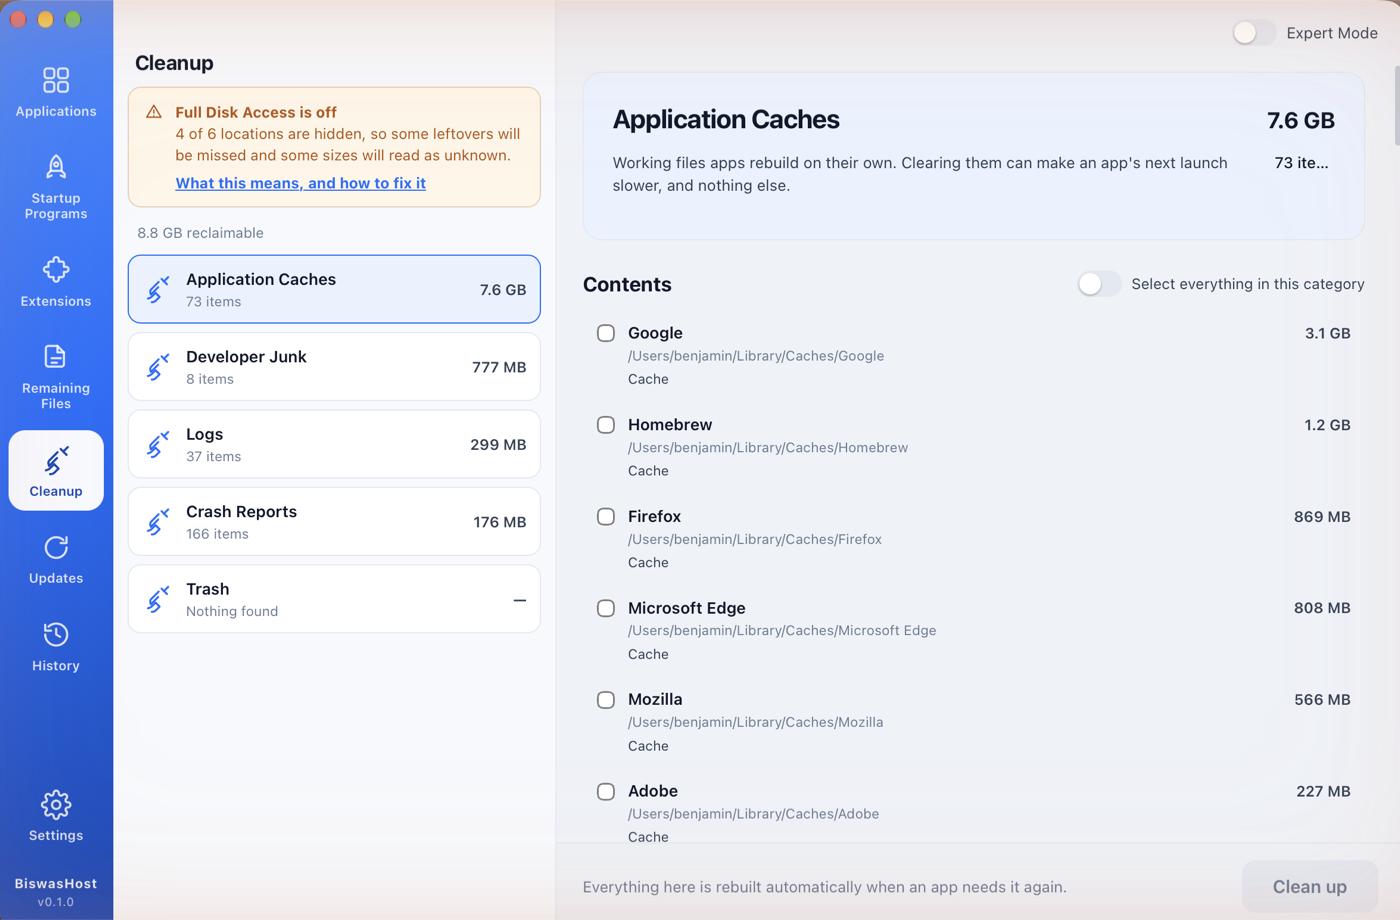
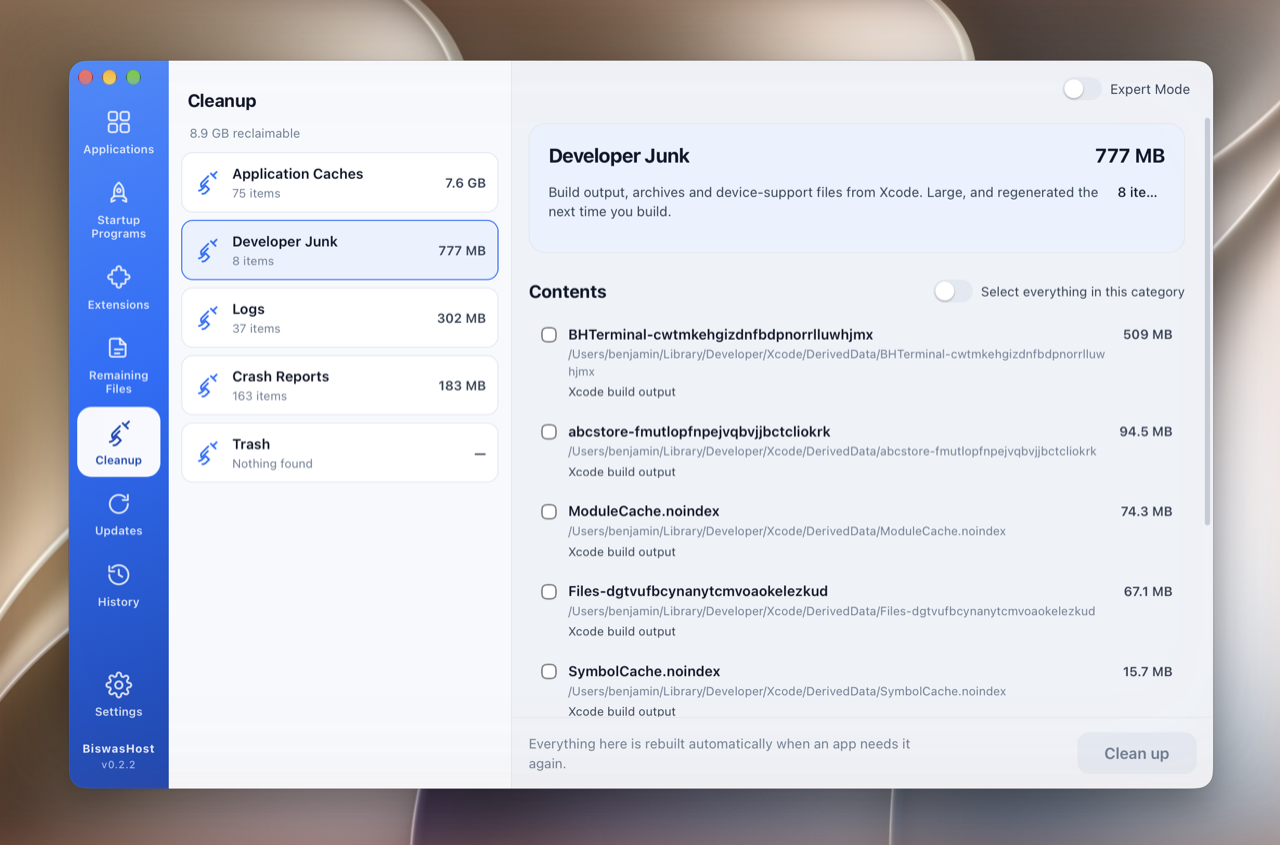
Retake the screenshots, and explain the permission that stops applying
All eight are from the installed 0.2.2 app rather than a build folder, with the
desktop and window shadow showing rather than a bare crop.

Every app they feature is free or open source — Free Download Manager, Firefox,
Android Studio, Homebrew's daemons, Xcode build output. Paid software is kept
out of them entirely, including App Cleaner, which is both paid and a direct
competitor and so an odd thing to put in our own README.

Adds Extensions and Remaining Files, which had no screenshot at all. The
Extensions one only has content now because Full Disk Access is granted — it
reads twenty-nine browser add-ons where it previously found almost nothing.

The History shot needed a removal that could actually be put back, so a crash
report of our own was removed and then restored through the app. Its restore
was verified on disk afterwards; nothing was left changed.

The README now also explains why Full Disk Access can stop applying after an
update, and that it will need removing and re-adding each time until the app has
a real Developer ID.

diff --git a/README.md b/README.md
@@ -65,6 +65,8 @@ Five rules the whole app is built around:
 
 <p align="center">
   <img src="docs/screenshots/startup.png" width="49%" alt="Startup Programs" />
+  <img src="docs/screenshots/extensions.png" width="49%" alt="Extensions" />
+  <img src="docs/screenshots/remaining.png" width="49%" alt="Remaining Files" />
   <img src="docs/screenshots/cleanup.png" width="49%" alt="Cleanup" />
   <img src="docs/screenshots/updates.png" width="49%" alt="Updates" />
   <img src="docs/screenshots/history.png" width="49%" alt="History" />
@@ -122,6 +124,20 @@ and what is missed because of each.
 Without it the app still works. It reports unreadable folders as *size unknown*
 rather than pretending they are empty, and never offers to remove something it
 could not read.
+
+### If you granted it and BHUninstaller still says it has not got it
+
+**Remove the entry from the list entirely, then add it again.**
+
+BHUninstaller is ad-hoc signed rather than signed with an Apple developer
+certificate, so macOS identifies it by the exact build. Every update is a
+different build — and the old entry stays in the list, still switched on, while
+no longer applying to the app you are running.
+
+**Expect to do this after each update**, until the app is signed with a real
+Developer ID. Also note that macOS applies the permission per process: a grant
+made while BHUninstaller is running does not reach it, which is why the app
+offers to relaunch itself once it detects one.
 
 ## 🔨 Building
 
